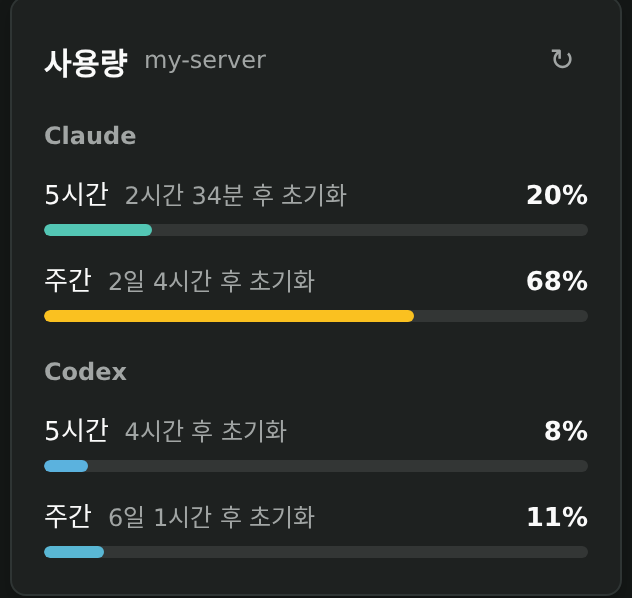
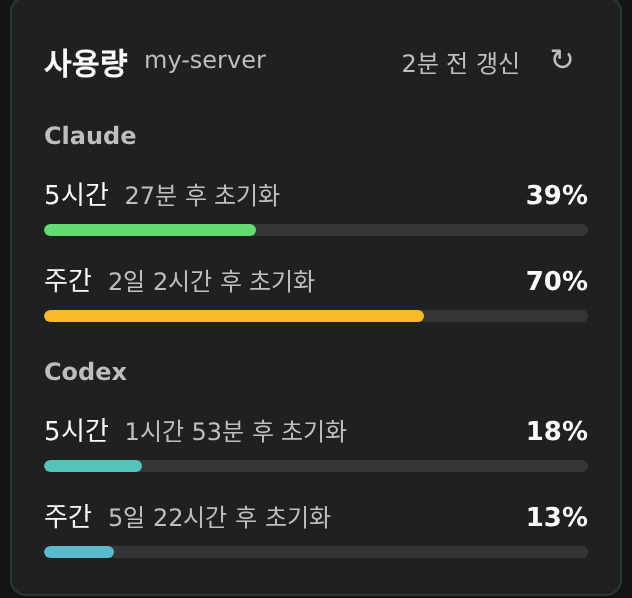
Animate the refresh button and confirm when it finishes
The icon spins for at least one turn while fetching and eases to a
stop, the button scales slightly on press, and a short "확인 완료"
check fades in after a successful refresh. Failures keep using the
existing warning banner.

diff --git a/client/usage-graphs.tsx b/client/usage-graphs.tsx
@@ -1,7 +1,7 @@
 import { type PluginClientContext, type PluginPopoverProps, type PluginSidebarItemProps, usePaseo } from "@getpaseo/plugin/client";
 import { useQuery } from "@tanstack/react-query";
-import { useEffect, useState } from "react";
-import { Pressable, Text, View } from "react-native";
+import { useEffect, useRef, useState } from "react";
+import { Animated, Easing, Pressable, Text, View } from "react-native";
 
 type Theme = PluginSidebarItemProps["theme"];
 type UsagePayload = Awaited<ReturnType<PluginClientContext["paseo"]["providers"]["listUsage"]>>;
@@ -11,6 +11,8 @@ type UsageQuery = ReturnType<typeof useUsage>;
 type AccountState = "loading" | "failed" | "missing" | "error" | "unavailable" | "no_windows" | "ok";
 
 const MINUTE = 60_000;
+const SPIN_MS = 800;
+const DONE_MS = 1800;
 const PROVIDERS = [
   { id: "claude", name: "Claude" },
   { id: "codex", name: "Codex" },
@@ -254,32 +256,96 @@ function AccountDetail({ name, provider, state, theme, now }: { name: string; pr
   return <Text style={{ fontSize: 13, color: secondaryText(theme) }}>불러오는 중…</Text>;
 }
 
+/** Manual refresh with a minimum spin, so even an instant cache hit visibly does something. */
+function useManualRefresh(query: UsageQuery) {
+  const [spinning, setSpinning] = useState(false);
+  const [done, setDone] = useState(false);
+  const timer = useRef<ReturnType<typeof setTimeout> | null>(null);
+  const clear = () => { if (timer.current !== null) clearTimeout(timer.current); };
+  useEffect(() => clear, []);
+  const refresh = async () => {
+    if (spinning) return;
+    clear();
+    setDone(false);
+    setSpinning(true);
+    const [result] = await Promise.all([query.refetch(), new Promise<void>((resolve) => setTimeout(resolve, SPIN_MS))]);
+    setSpinning(false);
+    if (result.isError) return;
+    setDone(true);
+    timer.current = setTimeout(() => setDone(false), DONE_MS);
+  };
+  return { refresh, spinning, done };
+}
+
+function RefreshButton({ theme, spinning, onPress }: { theme: Theme; spinning: boolean; onPress(): void }) {
+  const turn = useRef(new Animated.Value(0)).current;
+  useEffect(() => {
+    if (!spinning) return;
+    const loop = Animated.loop(Animated.timing(turn, { toValue: 1, duration: SPIN_MS, easing: Easing.linear, useNativeDriver: false }));
+    loop.start();
+    return () => {
+      loop.stop();
+      // Ease out to the next full turn instead of snapping back.
+      turn.stopAnimation((value) => {
+        Animated.timing(turn, { toValue: 1, duration: (1 - value) * SPIN_MS * 1.6, easing: Easing.out(Easing.cubic), useNativeDriver: false })
+          .start(() => turn.setValue(0));
+      });
+    };
+  }, [spinning, turn]);
+  const rotate = turn.interpolate({ inputRange: [0, 1], outputRange: ["0deg", "360deg"] });
+  return (
+    <Pressable accessibilityRole="button" accessibilityLabel="새로고침" accessibilityState={{ busy: spinning }} aria-busy={spinning} hitSlop={8}
+      disabled={spinning} onPress={onPress}
+      style={({ hovered, pressed }: { hovered?: boolean; pressed: boolean }) => ({
+        width: 26, height: 26, borderRadius: 7, alignItems: "center", justifyContent: "center",
+        backgroundColor: hovered || pressed ? theme.colors.surface2 : "transparent",
+        transform: [{ scale: pressed ? 0.88 : 1 }],
+      })}>
+      <Animated.Text style={{ fontSize: 15, lineHeight: 17, color: spinning ? theme.colors.foreground : secondaryText(theme), transform: [{ rotate }] }}>↻</Animated.Text>
+    </Pressable>
+  );
+}
+
+function RefreshStatus({ theme, done, updated }: { theme: Theme; done: boolean; updated: string | null }) {
+  const fade = useRef(new Animated.Value(0)).current;
+  useEffect(() => {
+    Animated.timing(fade, { toValue: done ? 1 : 0, duration: done ? 160 : 320, useNativeDriver: false }).start();
+  }, [done, fade]);
+  return (
+    <View style={{ justifyContent: "center" }}>
+      <Animated.View accessibilityLiveRegion="polite" aria-live="polite"
+        style={{ position: "absolute", right: 0, flexDirection: "row", alignItems: "center", gap: 4, opacity: fade,
+          transform: [{ translateY: fade.interpolate({ inputRange: [0, 1], outputRange: [3, 0] }) }] }}>
+        <Text style={{ fontSize: 12, fontWeight: "700", color: theme.colors.statusSuccess }}>✓</Text>
+        <Text numberOfLines={1} style={{ fontSize: 12, color: theme.colors.foreground }}>{done ? "확인 완료" : ""}</Text>
+      </Animated.View>
+      <Animated.Text numberOfLines={1} style={{ fontSize: 12, color: secondaryText(theme), opacity: fade.interpolate({ inputRange: [0, 1], outputRange: [1, 0] }) }}>
+        {updated ?? ""}
+      </Animated.Text>
+    </View>
+  );
+}
+
 function UsagePopover({ theme, host }: PluginPopoverProps) {
   const query = useUsage(host.id);
   const now = useNow();
   const providers = query.data?.providers ?? [];
   const updated = formatAgo(query.data?.fetchedAt, now);
-  const retry = () => { void query.refetch(); };
+  const { refresh, spinning, done } = useManualRefresh(query);
+  const retry = () => { void refresh(); };
   return (
     <View style={{ minWidth: 280, paddingHorizontal: 4, paddingVertical: 2, gap: 18 }}>
       <View style={{ flexDirection: "row", alignItems: "center", gap: 8 }}>
         <Text style={{ fontSize: 15, fontWeight: "600", color: theme.colors.foreground }}>사용량</Text>
         <Text numberOfLines={1} style={{ flex: 1, fontSize: 12, color: secondaryText(theme) }}>{host.label}</Text>
-        {updated && <Text style={{ fontSize: 12, color: secondaryText(theme) }}>{updated}</Text>}
-        <Pressable accessibilityRole="button" accessibilityLabel="새로고침" hitSlop={8}
-          disabled={query.isFetching} onPress={retry}
-          style={({ hovered }: { hovered?: boolean; pressed: boolean }) => ({
-            width: 26, height: 26, borderRadius: 7, alignItems: "center", justifyContent: "center",
-            backgroundColor: hovered ? theme.colors.surface2 : "transparent", opacity: query.isFetching ? 0.4 : 1,
-          })}>
-          <Text style={{ fontSize: 15, color: secondaryText(theme) }}>↻</Text>
-        </Pressable>
+        <RefreshStatus theme={theme} done={done} updated={updated} />
+        <RefreshButton theme={theme} spinning={spinning} onPress={retry} />
       </View>
       {query.isError && (
         <View style={{ flexDirection: "row", gap: 10, padding: 10, borderRadius: 8, borderWidth: 1, borderColor: theme.colors.border, backgroundColor: theme.colors.surface1 }}>
           <View style={{ width: 3, borderRadius: 2, backgroundColor: theme.colors.statusWarning }} />
           <View style={{ flex: 1 }}>
-            <Notice theme={theme} onRetry={retry} busy={query.isFetching}
+            <Notice theme={theme} onRetry={retry} busy={spinning}
               title={query.data ? "최신 사용량을 불러오지 못했어요." : "사용량을 불러오지 못했어요."}
               hint={query.data ? "아래는 마지막으로 받은 값이에요." : "Paseo 서버 연결을 확인하고 다시 시도해 주세요."} />
           </View>

diff --git a/README.md b/README.md
@@ -11,7 +11,7 @@
 
 - **한눈에 보는 사용량** — 서비스마다 한 줄에 `5h`(5시간)와 `1w`(주간) 사용률을 함께 표시합니다.
 - **사용량에 따른 색** — 막대 색이 사용률에 따라 🔵 파랑 → 🟢 초록 → 🟡 노랑 → 🔴 빨강으로 자연스럽게 바뀝니다. 다크·라이트 테마마다 잘 보이는 색조를 씁니다.
-- **상세 팝오버** — 위젯을 누르면 초기화까지 남은 시간과 새로고침 버튼이 있는 상세 화면이 열립니다.
+- **상세 팝오버** — 위젯을 누르면 초기화까지 남은 시간과 새로고침 버튼이 있는 상세 화면이 열립니다. 새로고침 중에는 아이콘이 돌고, 끝나면 "✓ 확인 완료"가 잠깐 표시됩니다.
 - **자동 갱신** — 1분마다 다시 조회합니다. 수치는 Paseo 서버의 사용량 캐시(기본 5분)를 따르므로 조금 늦게 반영될 수 있고, 팝오버에 마지막 갱신 시각이 표시됩니다.
 - **상태 안내** — 조회 실패, 공급자 오류, 사용 불가(로그인·요금제), 표시할 구간 없음을 구분해서 보여줍니다. 갱신에 실패하면 이전 값임을 표시하고 다시 시도할 수 있습니다.
 
